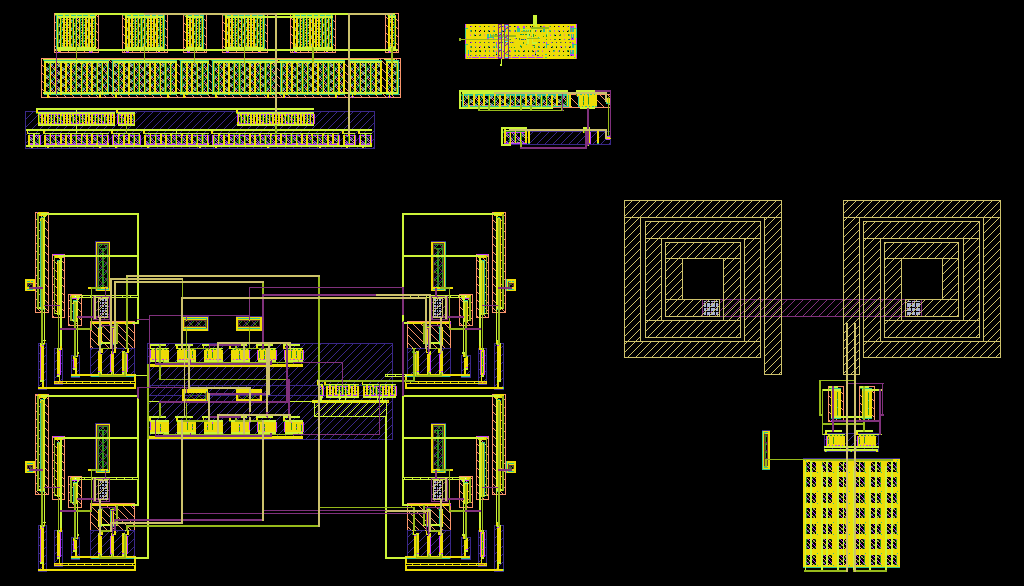
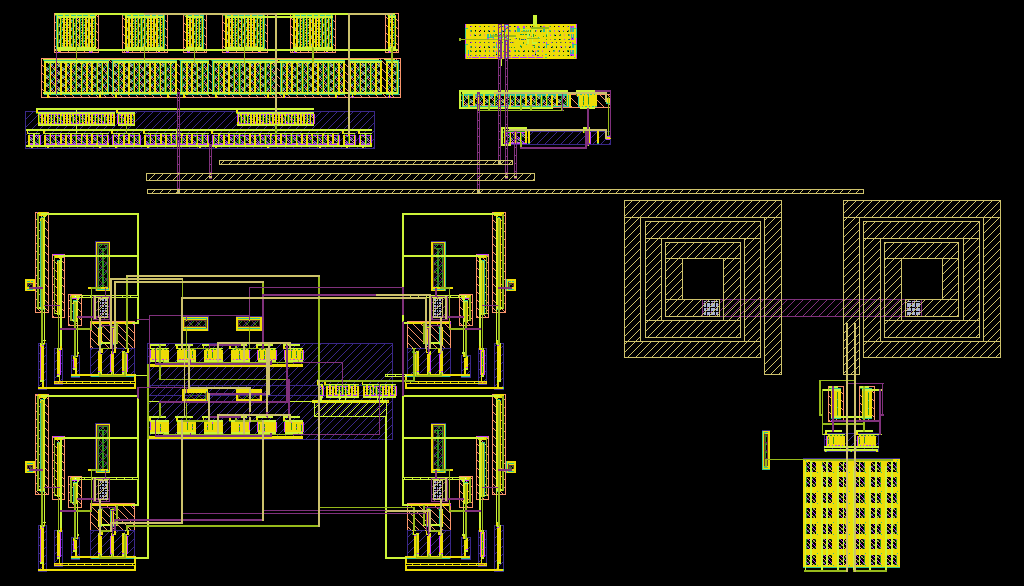
Phase 7: tracking + re-render for ISS pad, symbol fixes, routing 3a WIP
tracking 7.2 updated: 11 pins (ISS its own pad), CP_v1.sym/PFD_lib.sym fixed, routing
rung 3a WIP (VDDA CP+ibias connected, silent short found+fixed, interior-port blocker).
Re-rendered chip_top with the power buses in the band.

Changed region(s): [[0.1562, 0.0922, 0.8438, 0.3379]]

diff --git a/docs/tracking.md b/docs/tracking.md
@@ -165,27 +165,31 @@ phase at ~2.5 GHz is too fast for a monitor pad). Pins 12→10 (info.yaml + docs
   port lists are VERBATIM from each block's signed-off golden `.subckt`. Black-box (not the
   committed block symbols) because **CP_v1.sym is STALE** (5 pins; its golden+layout have 7 —
   adds VGP/VGN) and **there is no PFD_lib.sym** (only PFD_v1.sym, right ports/wrong cell name).
-  No block .sch/.sym touched (rule 12). Netlist verified: chip_top(10 ports) + correct per-block
-  connectivity, FB=I_P, CP has VGP/VGN, **vco ISS→GND** (no on-chip tail source; sources-to-gnd,
-  reversible — flag for Greg).
+  No block .sch/.sym touched here (rule 12). **ISS UPDATE (11 pins):** chip_top.sch had tied
+  vco.ISS→GND; corrected — **vco ISS is now its own analog pad** (tail current stays off-chip
+  controllable; grounding it would move the operating point off the characterized 1 mA tail).
+  info.yaml 10→11 (VDDA IBIAS ISS VTUNE CP_OUT I_P I_N Q_P Q_N VDDD REF_IN). vco line:
+  `x_vco_v1 VDDA VCO_OUTP VCO_OUTN GND VTUNE ISS`.
 - **chip_top_golden.spice (`team_src/magic/`)** — GENERATED, not typed: `assemble_chip_golden.py`
-  takes the netlisted top from chip_top.sch and inlines the 5 signed-off block goldens as the
-  definitions. Verified: **115 devices** (7+8+17+75+8 block X-instances) = golden X(120) − 5 top
-  block instances; **10 ports** = info.yaml. Force-added (survives *.spice ignore).
-- **LVS harness** — `chip_top.abstract` (vco_varactors+vco_inductor_v2 preload, inductor
-  ignore-class, same as vco_v1). `verify_cp.sh chip_top` runs end-to-end on the UNROUTED merge:
-  **magic DRC 0, 25 nets, LVS DO NOT MATCH** (mismatch = missing inter-block metal only). The
-  golden is independent of the routing, so any route is checkable with one verify_cp run.
-- No pad/IO/ESD cells exist (organizer padframe); the 10 pads are die-edge port labels (rung 4c).
+  inlines the 5 signed-off block goldens under the netlisted top. Verified: **115 devices**
+  (7+8+17+75+8) = golden X(120) − 5; **11 ports** = info.yaml. Force-added.
+- **Block SYMBOLS fixed** (item 2, symbols not schematics): `CP_v1.sym` given its missing
+  VGP/VGN (now = golden order UP DOWN CP_OUT VDD VSS VGP VGN); **`PFD_lib.sym` created** (golden
+  order REF FB UP DOWN VDD VSS). chip_top still netlists identically (black boxes untouched).
+- **LVS harness** — `chip_top.abstract` (vco preload + inductor ignore). `verify_cp.sh chip_top`
+  runs end-to-end: on the unrouted merge magic DRC 0, 25 nets, LVS DO NOT MATCH (missing metal).
 
-**ROUTING (rungs 4a–4c) — 🟡 DEFERRED with an executable plan** in `docs/phase7-routing-plan.md`.
-The port work-list (chip coords, per net, from `phase5/port_map.py`), the layer discipline
-(H=M4 / V=M3, power on wide M2 straps, via3 at junctions — prevents the silent-short family),
-the free-space/margin routing (avoid vco's M5 spiral), and the WIP order are all specified. Not
-done blind in-script this session: a DRC-clean, short-free, LVS-matching route of ~11
-inter-block nets + power across the 472×270 die is a multi-hour iterative job (the project's
-silent-short failure mode) and over the 15-min-per-task budget. Most inter-block nets are
-same-layer **M2** (VGP/VGN/IB_DIV2/DOWN/VDDA), which simplifies execution.
+**ROUTING (rungs 3a–3c) — 🟡 WIP (started, partial).** Infra built + validated: `route_lib.py`
+DRC-clean primitives (via stacks M1–M5, wires; gf180 via 0.26 µm), `route_chip.py` adds
+top-level metal to the placed merge. **Power buses in the y[180,205] band** (verified clear of
+all blocks full-width). **SILENT SHORT found + fixed:** risers on M5 crossing an M5 bus merged
+GND into VDDD (PFD.VDD→VSUBS, DRC-legal/LVS-fatal) → **risers now M4, buses M5, via4 only at the
+target bus**. Connected so far (magic DRC 0, KLayout var-D 168): **VDDA = CP.VDD + ibias.VDD**
+(verified in extraction), GND bus on CP/ibias/PFD VSS, VDDD bus on PFD.VDD; no shorts. **Blocker
+— interior ports in dense metal:** vco (VDD/GND/ISS) and DIV2 (VDD/VSS, CK/CKB) sit deep in
+dense block metal; a via drop lands but the riser to a channel crosses dense metal and shorts —
+needs per-net threading. See `docs/phase7-routing-plan.md` PROGRESS+LESSONS. Remaining: those
+interior power terminals, all signal nets, and the 11 die-edge port labels; then LVS match.
 
 ### 7.3 lvs_config.json repoint (item 6) — ⏸ SPEC READY, NOT APPLIED (gated on chip LVS pass)
 
